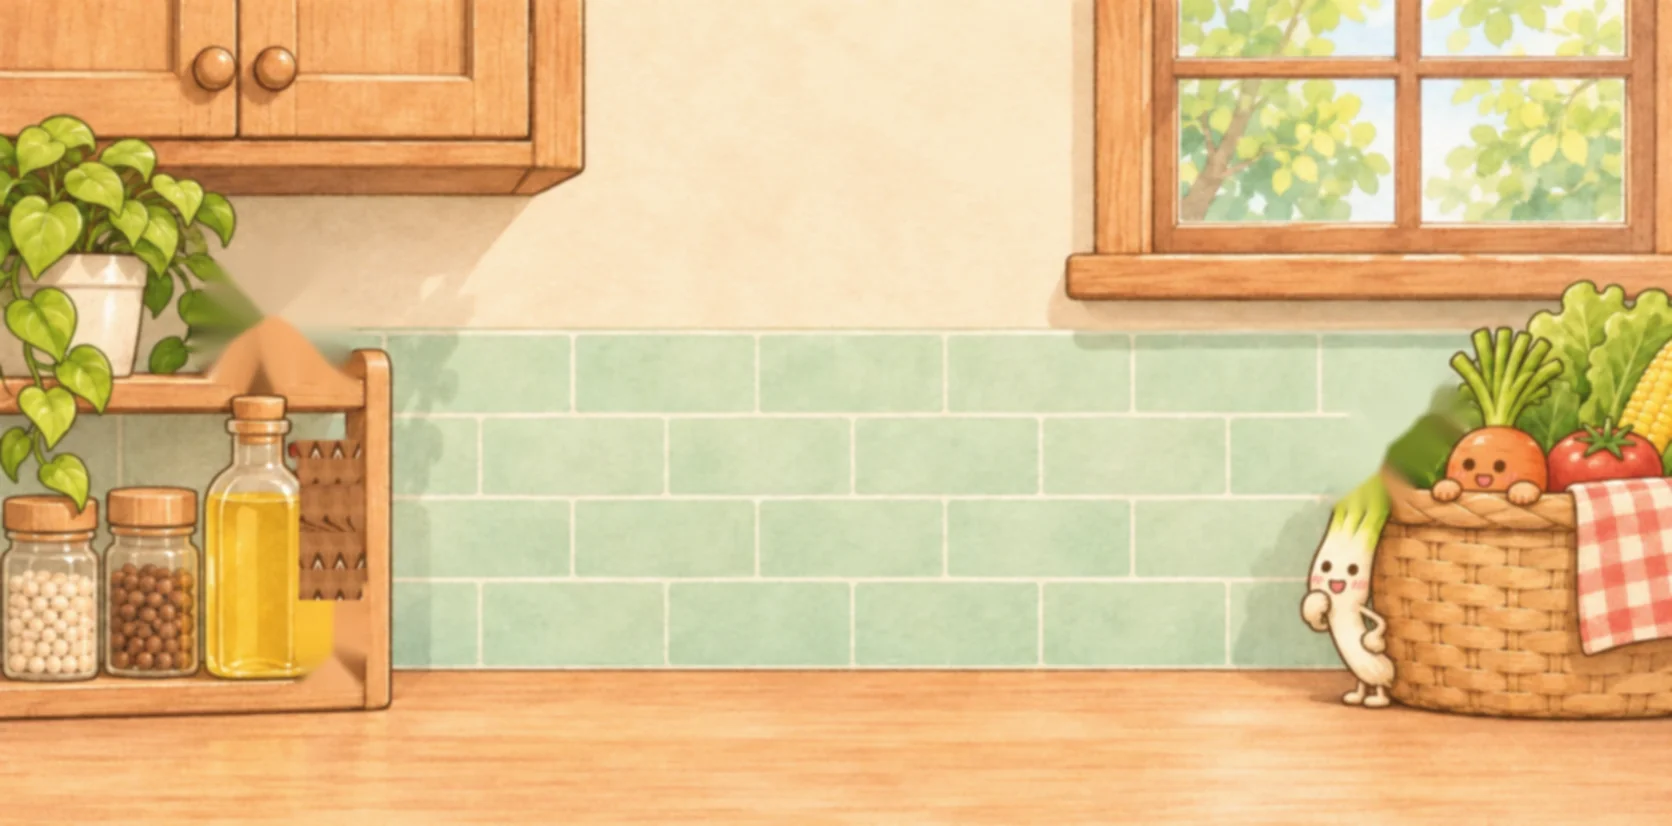
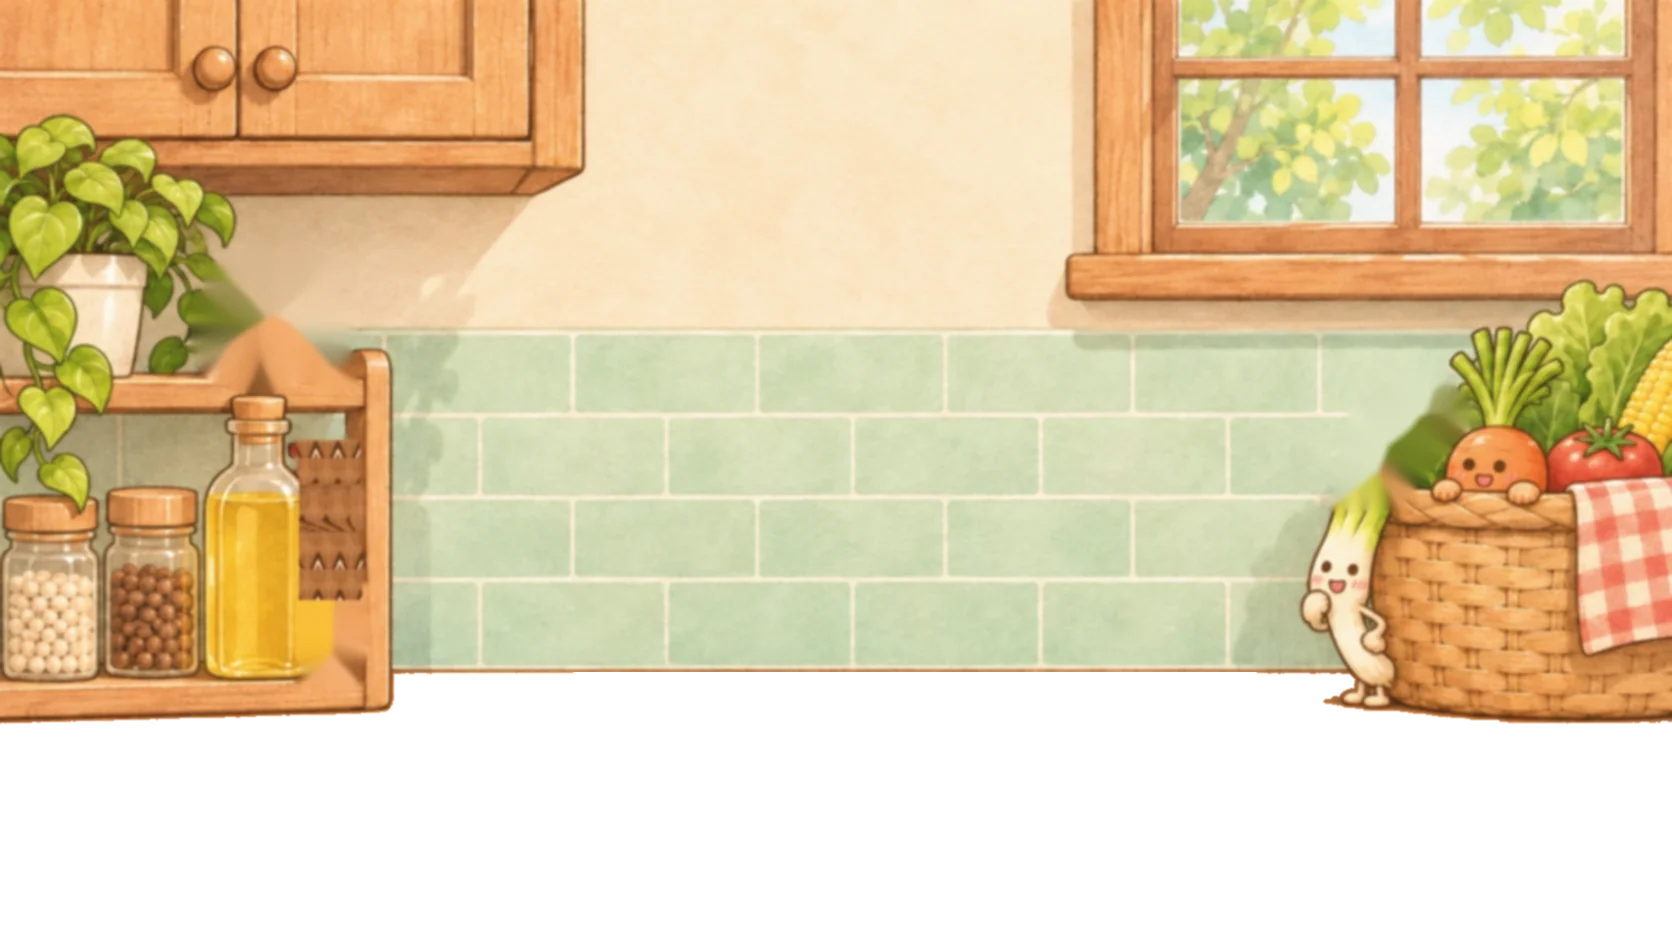
Reading kitchen depth without a seam: far layer carries the objects on the counter, the counter is one bridge band
The feathered far/near split doubled the wood grain at the seam when the far
plane moved vertically. Now the far layer keeps the wall plus the objects
standing on the counter (ink-outline flood fill, with their shadows), and the
counter itself is a single band whose back edge follows the far layer through a
skew/scaleY matrix pinned at the front edge, so nothing overlaps and the egg
still stands on the near edge. Vertical parallax is back.

diff --git a/src/app/preview/visual/Backdrops.tsx b/src/app/preview/visual/Backdrops.tsx
@@ -20,7 +20,8 @@
  * 不画第二只蛋或锅；占位只用平涂色块，说明文字只在 ?debug=1 显示。
  * 导出名 Paper / SearchBackdrop。
  */
-import { useEffect, useSyncExternalStore, type CSSProperties } from "react";
+import gsap from "gsap";
+import { useEffect, useRef, useSyncExternalStore, type CSSProperties } from "react";
 import { KITCHEN_ONESHOT_EVENT } from "@/components/kitchen/useKitchenAudio";
 import type { Beat, Timeline } from "@/lib/beats";
 import { Z } from "@/lib/scene";
@@ -190,14 +191,31 @@ function ReadingKitchen({ reveal }: { reveal: number }) {
   const L = portrait ? LS.lightPortrait : LS.light;
   const lx = L.from[0] + (L.to[0] - L.from[0]) * lp, ly = L.from[1] + (L.to[1] - L.from[1]) * lp;
   const lpct = (b: number[]) => ({ left: `${(b[0] / liw) * 100}%`, top: `${(b[1] / lih) * 100}%`, width: `${(b[2] / liw) * 100}%`, height: `${(b[3] / lih) * 100}%` });
-  // 纵深（reading.planes，横版拆层时）：远景平面（墙、层板、菜篮、小角色、窗）比主体层少动（只在横向：切缝在横木纹上，竖向错位会在羽化带里叠影），
-  // 近景平面（台面前半）和蛋一起动；
+  // 纵深（reading.planes，横版拆层时）：远景层（墙、窗、层板、菜篮、小角色，连同它们在台面上的底座）比主体层少动；
+  // 台面桥是整条台面：后沿跟远景层、前沿（蛋站的地方）跟主体层，中间按比例拉伸 / 倾斜，远近之间没有缝。
   // 画格在场时远景软化（预烘的软化版叠化进来，小角色和窗玻璃加一点模糊）。竖版没有拆层，保持单张。
   const PL = !portrait && actors.length ? R.planes : null;
   const farSoft = PL && !reducedMotion ? panelPresence(t, beats) : 0;
-  const farShift = PL
-    ? `calc(var(--kl-mouse-x, 0) * ${PL.far.mouse}px + var(--kl-depth-x, 0px) * ${PL.far.depth}) calc(var(--kl-mouse-y, 0) * ${PL.far.mouseY}px)`
-    : undefined;
+  const farRef = useRef<HTMLDivElement>(null);
+  const bandRef = useRef<HTMLImageElement>(null);
+  // 桥的高度（场景像素）：台面后沿到前沿；位移也按场景像素，所以拉伸比例 = 1 − dy / 桥高，倾斜 = −dx / 桥高
+  const bridgeH = (R.counter.imgFrontY - R.counter.imgBackY) * (w / iw);
+  const bandOrigin = `0 ${(((R.counter.imgFrontY - R.counter.imgBackY) / (PL?.band.img[3] ?? 1)) * 100).toFixed(3)}%`;
+  useEffect(() => {
+    if (!PL) return;
+    const root = document.documentElement.style;
+    const num = (name: string) => parseFloat(root.getPropertyValue(name)) || 0;
+    const tick = () => {
+      const far = farRef.current, band = bandRef.current;
+      if (!far || !band) return;
+      const dx = num("--kl-mouse-x") * PL.far.mouse + num("--kl-depth-x") * PL.far.depth;
+      const dy = num("--kl-mouse-y") * PL.far.mouseY + num("--kl-depth-y") * PL.far.depthY + num("--kl-drift") * PL.far.drift;
+      far.style.translate = `${dx.toFixed(2)}px ${dy.toFixed(2)}px`;
+      band.style.transform = `matrix(1, 0, ${(-dx / bridgeH).toFixed(5)}, ${(1 - dy / bridgeH).toFixed(5)}, 0, 0)`;
+    };
+    gsap.ticker.add(tick);
+    return () => gsap.ticker.remove(tick);
+  }, [PL, bridgeH]);
   const blur = (px: number): CSSProperties | undefined => (PL && farSoft > 0.01 ? { filter: `blur(${(px * farSoft).toFixed(2)}px)` } : undefined);
   const actorEls = actors.map((a) => {
     const deg = reducedMotion ? 0 : Math.min(a.range[1], Math.max(a.range[0], bgCurve(a.curve as CurveName, g)));
@@ -268,8 +286,11 @@ function ReadingKitchen({ reveal }: { reveal: number }) {
     >
       {PL ? (
         <>
-          {/* 远景平面：墙、瓷砖、窗、层板、菜篮（站在台面后沿的东西都在这里）、小角色；比主体层少动 */}
-          <div data-plane="far" className="absolute inset-0" style={{ translate: farShift }}>
+          {/* 台面桥：整条台面加前脸。后沿跟远景层位移、前沿跟主体层（蛋站在前沿附近），中间拉伸 / 倾斜（ticker 写 transform） */}
+          {/* eslint-disable-next-line @next/next/no-img-element */}
+          <img ref={bandRef} data-plane="band" src={PL.band.src} alt="" draggable={false} className="absolute select-none" style={{ ...pct(PL.band.img), transformOrigin: bandOrigin, willChange: "transform" }} />
+          {/* 远景层：墙、瓷砖、窗、层板、菜篮、小角色，连同它们在台面上的底座（画在台面桥之上）；比主体层少动（ticker 写 translate） */}
+          <div ref={farRef} data-plane="far" className="absolute inset-0" style={{ willChange: "translate" }}>
             {/* eslint-disable-next-line @next/next/no-img-element */}
             <img src={PL.far.src} alt="" draggable={false} className="absolute select-none" style={pct(PL.far.img)} />
             {/* eslint-disable-next-line @next/next/no-img-element */}
@@ -277,11 +298,6 @@ function ReadingKitchen({ reveal }: { reveal: number }) {
             {actorEls}
             {windowEls}
             {occluderEls}
-          </div>
-          {/* 近景平面：台面前半（上沿羽化接到远景的台面上），蛋站在这里，和主体层一起动 */}
-          <div data-plane="near" className="absolute inset-0">
-            {/* eslint-disable-next-line @next/next/no-img-element */}
-            <img src={PL.near.src} alt="" draggable={false} className="absolute select-none" style={pct(PL.near.img)} />
           </div>
         </>
       ) : (

diff --git a/tools/prepare_planes.py b/tools/prepare_planes.py
@@ -1,53 +1,148 @@
 #!/usr/bin/env python3
-"""阅读段厨房（kitchen-friends-base.webp，1672×941）拆成远、近两个平面，加一张远景软化版，给页面做纵深。
+"""阅读段厨房（kitchen-friends-base.webp，1672×941）拆成远景层 + 台面桥 + 远景软化版，给页面做纵深（不靠羽化接缝）。
 
-  远景平面 kitchen-friends-far.webp   图片 y 0–FAR_BOTTOM：墙、瓷砖、窗、层板、菜篮和站在台面后沿的一切，
-                                     下沿留到台面中段（比近景平面的不透明起点低 FAR_BOTTOM−NEAR_OPAQUE 像素），
-                                     远景相对主体层上下错位时不露底。
-  近景平面 kitchen-friends-near.webp  图片 y NEAR_TOP–941：台面前半（蛋站的地方），上沿 NEAR_TOP→NEAR_OPAQUE 羽化接到远景的台面上。
-  远景软化 kitchen-friends-far-soft.webp  远景平面的模糊、低饱和、略亮版，画格在场时叠化进来（预烘，不用每帧跑滤镜）。
+  远景层 kitchen-friends-far.webp（RGBA）
+      台面后沿（图片 y BACK）以上的一切：墙、瓷砖、窗、吊柜、层板上半；再加上站在台面后沿的物件在台面上的部分
+      （层板底座、菜篮、葱、格纹布……）：从台面区域里按墨线轮廓抠出来，整个物件都归远景。下沿留 LAP 像素的台面木纹
+      藏在台面桥下面，防止接缝处的亚像素细线。
+  台面桥 kitchen-friends-band.webp（不透明）
+      图片 y BACK–941：整条台面加前脸。物件底座的位置用同一行的木纹补上（cv2.inpaint），物件在远景层里盖住这里。
+      页面上它的后沿跟着远景层位移、前沿跟着近景（主体层），中间按比例拉伸 / 倾斜（matrix），所以远近之间没有缝。
+  远景软化 kitchen-friends-far-soft.webp（RGBA，同样的 alpha）
+      远景层的模糊、低饱和、略亮版，画格在场时叠化进来（预烘，不每帧跑滤镜）。
+  检查图 tools/planes_check.png：远景层叠在品红底上 / 台面桥 / 抠出来的物件遮罩。
 
-切缝放在台面中段的平木纹上：台面后沿（图片 y 668）站着层板和菜篮，直线切会切断它们，所以它们整个归远景。
-羽化带里远近两份木纹最多错开十几像素，只在镜头移动时出现。
-只裁切、羽化和整体调色，不重画。打印的数值填 backgrounds.json reading.planes。
+只裁切、抠图和按周围像素补齐，不重画。打印的数值填 backgrounds.json reading.planes。
 
 Run:  python3 tools/prepare_planes.py
 """
 from pathlib import Path
 
+import cv2
 import numpy as np
 from PIL import Image, ImageEnhance, ImageFilter
+from scipy import ndimage
 
 ROOT = Path(__file__).resolve().parents[1]
 SRC = ROOT / "public/assets/bg/kitchen-friends-base.webp"
 OUT = ROOT / "public/assets/bg"
-FAR_BOTTOM, NEAR_TOP, NEAR_OPAQUE = 826, 754, 790
+BACK, FRONT = 668, 885  # 台面后沿 / 前沿（图片 y，backgrounds.json reading.counter.imgBackY / imgFrontY）
+OBJ_MAX_Y = 860  # 站在台面上的物件最低到这里；再往下只有台面和前沿线
+LAP = 4  # 远景层在后沿以下多留的木纹
+INK = 105  # 墨线亮度阈值（与 tools/prepare_friends.py 相同）
+SEEDS = [(836, 770), (1000, 820), (600, 850), (1250, 760)]  # 台面上没有物件的点
 SOFT = dict(blur=1.3, color=0.88, brightness=1.04, contrast=0.93)
+
+
+def fill_rows(img: np.ndarray, hole: np.ndarray, feather: int = 6) -> np.ndarray:
+    """逐行填洞：每个洞段从同一行相邻的完好木纹（取较长的一侧）镜像铺满，两端与原像素线性过渡。"""
+    out = img.copy()
+    H, W = hole.shape
+    for y in range(H):
+        row = hole[y]
+        if not row.any():
+            continue
+        x = 0
+        while x < W:
+            if not row[x]:
+                x += 1
+                continue
+            a = x
+            while x < W and row[x]:
+                x += 1
+            b = x  # 洞段 [a, b)
+            # 左右两侧完好段的长度
+            l = a
+            while l > 0 and not row[l - 1]:
+                l -= 1
+            r = b
+            while r < W and not row[r]:
+                r += 1
+            left_len, right_len = a - l, r - b
+            if left_len == 0 and right_len == 0:
+                continue
+            src = img[y, b:r] if right_len >= left_len else img[y, l:a][::-1]  # 从洞边起向外的像素
+            need = b - a
+            reps = int(np.ceil(need / len(src))) + 1
+            tile = np.concatenate([src if i % 2 == 0 else src[::-1] for i in range(reps)])[:need]
+            seg = tile[::-1] if right_len >= left_len else tile  # 贴着取样一侧镜像
+            out[y, a:b] = seg
+            # 两端渐变
+            n = min(feather, need // 2)
+            if n > 0:
+                if left_len:
+                    w = np.linspace(0, 1, n + 2)[1:-1, None]
+                    out[y, a : a + n] = img[y, a - 1] * (1 - w) + seg[:n] * w
+                if right_len:
+                    w = np.linspace(1, 0, n + 2)[1:-1, None]
+                    out[y, b - n : b] = img[y, b] * (1 - w) + seg[need - n :] * w
+    return out
 
 
 def main() -> None:
     im = Image.open(SRC).convert("RGB")
     W, H = im.size
-    far = im.crop((0, 0, W, FAR_BOTTOM))
-    far.save(OUT / "kitchen-friends-far.webp", "WEBP", quality=92, method=6)
+    rgb = np.asarray(im)
+    lum = cv2.cvtColor(rgb, cv2.COLOR_RGB2GRAY)
+    free = (lum > INK).astype(np.uint8)
 
-    near = np.asarray(im.crop((0, NEAR_TOP, W, H)).convert("RGBA")).copy()
-    n = NEAR_OPAQUE - NEAR_TOP
-    r = np.linspace(0, 1, n, dtype=np.float32)
-    ramp = r * r * (3 - 2 * r)
-    near[:n, :, 3] = np.round(ramp * 255).astype(np.uint8)[:, None]
-    Image.fromarray(near).save(OUT / "kitchen-friends-near.webp", "WEBP", quality=92, method=6)
+    # 台面上的空木纹：从种子点在墨线之间泛洪，限制在后沿和前沿之间；没被泛到的（墨线围起来的）就是物件
+    lim = np.zeros((H, W), np.uint8)
+    lim[BACK:FRONT, :] = 1
+    f = (free & lim) * 255
+    mask = np.zeros((H + 2, W + 2), np.uint8)
+    for sx, sy in SEEDS:
+        if f[sy, sx] == 0:
+            raise SystemExit(f"种子点 {(sx, sy)} 不在空台面上")
+        if f[sy, sx] == 255:  # 128 = 已被前一个种子泛到
+            cv2.floodFill(f, mask, (sx, sy), 128)
+    counter_free = f == 128
+    objects = lim.astype(bool) & ~counter_free
+    objects[OBJ_MAX_Y:, :] = False  # 前沿线不算物件
+    objects = ndimage.binary_fill_holes(objects)
+    # 去掉孤立的小碎片（木纹里偶然的深色点），再外扩 2 像素把轮廓线包进来
+    lab, n = ndimage.label(objects)
+    sizes = ndimage.sum(objects, lab, range(1, n + 1))
+    keep = np.isin(lab, [i + 1 for i, s in enumerate(sizes) if s >= 400])
+    objects = ndimage.binary_dilation(keep, iterations=2)
+    obj_soft = cv2.GaussianBlur(objects.astype(np.float32), (3, 3), 0)
 
-    soft = far.filter(ImageFilter.GaussianBlur(SOFT["blur"]))
+    # 远景层 alpha：后沿以上 1（加 LAP 行木纹），台面区域里只有物件
+    alpha = np.zeros((H, W), np.float32)
+    alpha[: BACK + LAP, :] = 1
+    alpha = np.maximum(alpha, obj_soft)
+    far = np.dstack([rgb, np.round(alpha * 255).astype(np.uint8)])
+    Image.fromarray(far).save(OUT / "kitchen-friends-far.webp", "WEBP", quality=92, method=6)
+
+    # 台面桥：后沿到图片底，物件底座处用同一行旁边的木纹镜像填进来（木纹是横向的，整行延续最自然），边缘 6 像素渐变
+    band = rgb[BACK:, :].astype(np.float32)
+    hole = ndimage.binary_dilation(objects, iterations=3)[BACK:, :]
+    band = fill_rows(band, hole)
+    Image.fromarray(np.clip(band, 0, 255).astype(np.uint8)).save(OUT / "kitchen-friends-band.webp", "WEBP", quality=92, method=6)
+
+    # 远景软化版
+    soft = im.filter(ImageFilter.GaussianBlur(SOFT["blur"]))
     soft = ImageEnhance.Color(soft).enhance(SOFT["color"])
     soft = ImageEnhance.Brightness(soft).enhance(SOFT["brightness"])
     soft = ImageEnhance.Contrast(soft).enhance(SOFT["contrast"])
-    soft.save(OUT / "kitchen-friends-far-soft.webp", "WEBP", quality=85, method=6)
+    soft_rgba = np.dstack([np.asarray(soft), far[..., 3]])
+    Image.fromarray(soft_rgba).save(OUT / "kitchen-friends-far-soft.webp", "WEBP", quality=85, method=6)
 
-    for f in ("kitchen-friends-far", "kitchen-friends-near", "kitchen-friends-far-soft"):
-        print(f"{f}.webp  {(OUT / f'{f}.webp').stat().st_size // 1024} KB")
-    print(f'far.img  = [0, 0, {W}, {FAR_BOTTOM}]')
-    print(f'near.img = [0, {NEAR_TOP}, {W}, {H - NEAR_TOP}]')
+    # 检查图
+    magenta = np.full_like(rgb, (255, 0, 255))
+    a = far[..., 3:4] / 255.0
+    far_chk = (rgb * a + magenta * (1 - a)).astype(np.uint8)
+    obj_chk = np.where(objects[..., None], rgb, (rgb * 0.25).astype(np.uint8))
+    band_chk = np.zeros_like(rgb)
+    band_chk[BACK:, :] = band
+    sheet = np.vstack([far_chk[BACK - 120 : FRONT + 60], band_chk[BACK - 120 : FRONT + 60], obj_chk[BACK - 120 : FRONT + 60]])
+    Image.fromarray(sheet).save(ROOT / "tools/planes_check.png")
+
+    for name in ("kitchen-friends-far", "kitchen-friends-band", "kitchen-friends-far-soft"):
+        print(f"{name}.webp  {(OUT / f'{name}.webp').stat().st_size // 1024} KB")
+    ys, xs = np.nonzero(objects)
+    print(f"objects on the counter: {n} components ≥ 400 px kept, rows {ys.min()}–{ys.max()}")
+    print(f"far.img  = [0, 0, {W}, {H}]   band.img = [0, {BACK}, {W}, {H - BACK}]   bridge rows = {FRONT - BACK}")
 
 
 if __name__ == "__main__":

diff --git a/docs/PAPER-WORLD.md b/docs/PAPER-WORLD.md
@@ -14,7 +14,7 @@
 | 画框是实物：蛋落地时近处的格子框朝远离蛋的方向抖约两个像素并轻微倾斜；蛋靠近格子时纸面透出一点暖黄（软光混合，随距离衰减） | `src/app/preview/visual/FrameReact.tsx`；蛋派发 `egg:land` | `?perf=0` 关 |
 | 纸世界的帧率：蛋飞向锅铲的最后 20% 和落铲压缩回弹按一拍二（约 12 帧每秒）走，蛋回到空桌的碗里又顺滑 | `Egg.tsx` 的 `STEP_FROM` / `STEP_MS` | `?step=0` 关 |
 | 围观群众：切菜每一刀 → 葱，"啵"（点蛋，或 hear 格妈妈抬眼）→ 糖罐、酱油瓶，画外的嗒 / 结尾的嗒 → 酱油瓶，半拍后各"一惊"（脚底为轴放大约 4% 再回落，只放大不位移，不会露出补过的底图） | `Backdrops.tsx` 的 `useFriendReactions` | 减少动态效果时不做 |
-| 纵深（2026-11-15）：桌上的蛋有接触影子（脚底正下方一圈深核心 + 外圈软影，起跳时消失）；画格是最近的一层：柔和投影落在厨房上，进场时从 1.035 缩到 1，整层随鼠标做比桌面大的视差；阅读厨房拆成远、近两个平面（`tools/prepare_planes.py`）：墙、层板、菜篮、小角色、窗在远景平面，比主体层少动，只在横向（鼠标 3.5 px、镜头景深 × 0.08；竖向只有 0.9 px 的鼠标量，因为切缝在横木纹上，上下错开会叠影），台面前半和蛋一起动；画格在场时远景叠化成预烘的软化版（模糊、低饱和、略亮），小角色和窗玻璃加 0.6 / 0.8 px 模糊，没有画格的段（prejump、listen）恢复清晰 | `Egg.tsx` 的影子样式；`paper.ts`（投影、进场缩放、视差系数）；`Backdrops.tsx` 的 `ReadingKitchen` planes 分支和 `panelPresence`；系数在 `backgrounds.json` reading.planes；输入变量 `--kl-mouse-* / --kl-depth-* / --kl-drift` 由 `KitchenLayers` 发布在舞台和 `<html>` 上 | 减少动态效果时视差为 0、不软化；删 `reading.planes` 回到单张底图 |
+| 纵深（2026-11-15）：桌上的蛋有接触影子（脚底正下方一圈深核心 + 外圈软影，起跳时消失）；画格是最近的一层：柔和投影落在厨房上，进场时从 1.035 缩到 1，整层随鼠标做比桌面大的视差；阅读厨房拆成远景层 + 台面桥（`tools/prepare_planes.py`）：墙、窗、层板、菜篮、小角色连同它们在台面上的底座在远景层，比主体层少动（鼠标 3.5 / 2.1 px、镜头景深 × 0.08、阅读漂移 5 px）；台面桥是整条台面，后沿跟远景、前沿跟主体层，中间按比例拉伸 / 倾斜（最多约 6%，横木纹上看不出来），远近之间没有缝，蛋站的前沿不动；画格在场时远景叠化成预烘的软化版（模糊、低饱和、略亮），小角色和窗玻璃加 0.6 / 0.8 px 模糊，没有画格的段（prejump、listen）恢复清晰 | `Egg.tsx` 的影子样式；`paper.ts`（投影、进场缩放、视差系数）；`Backdrops.tsx` 的 `ReadingKitchen` planes 分支和 `panelPresence`；系数在 `backgrounds.json` reading.planes；输入变量 `--kl-mouse-* / --kl-depth-* / --kl-drift` 由 `KitchenLayers` 发布在舞台和 `<html>` 上 | 减少动态效果时视差为 0、不软化；删 `reading.planes` 回到单张底图 |
 | 点蛋彩蛋：点那颗活动蛋（后景桌沿、锅里、空桌的碗里），蛋回一个小跳，"啵"一声，每次随机一个音高（pop.mp3 变速，不配音）；鼠标移上去变手指 | `src/app/preview/visual/EggPoke.tsx` | 删掉 page.tsx 里的 `<EggPoke />` |
 
 ## 刻意没做的
